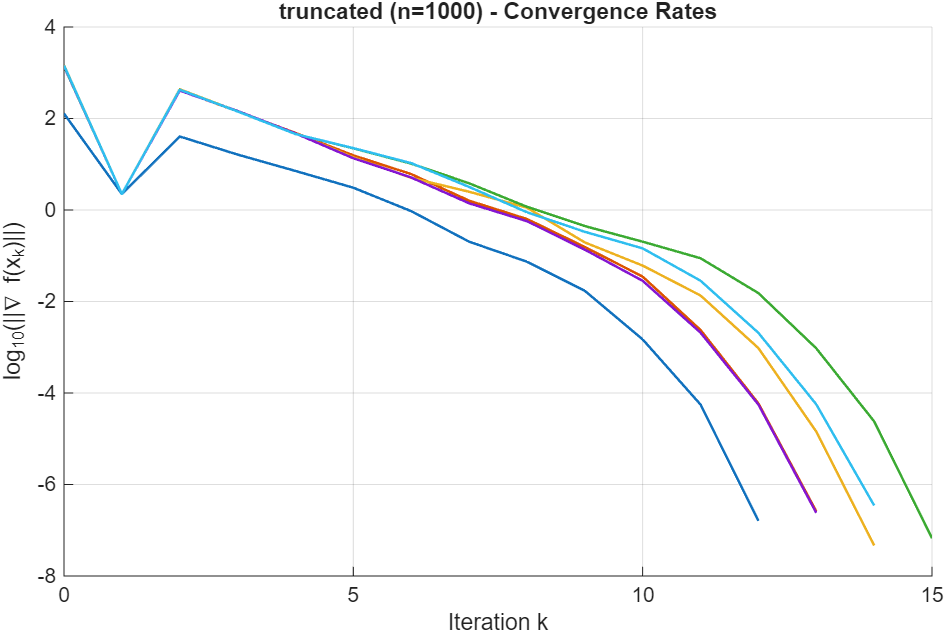
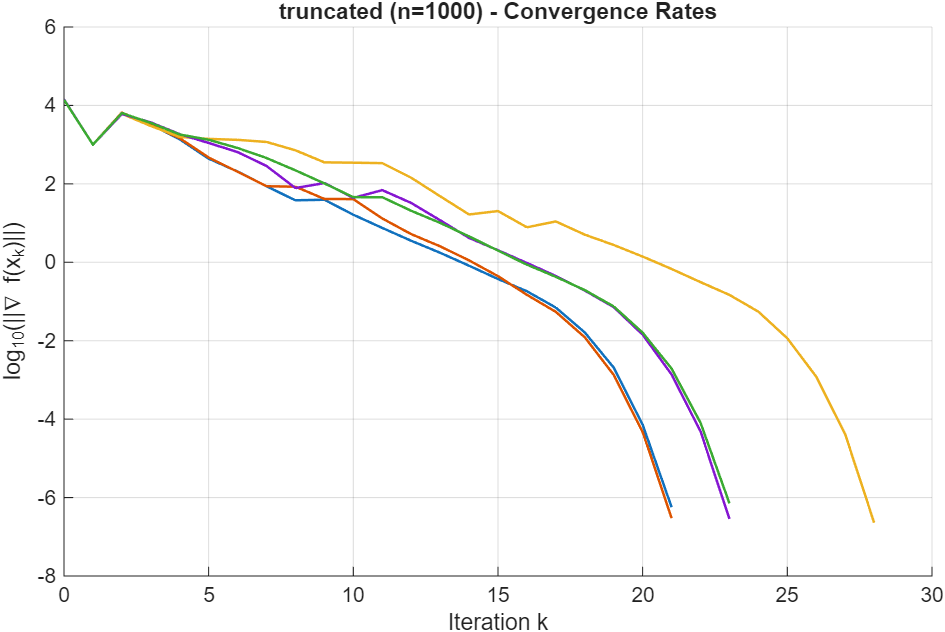
aggiunta anche il 16

diff --git a/main/utils/problem_trig16.m b/main/utils/problem_trig16.m
@@ -1,0 +1,48 @@
+function [f,gradf,hessf,xbar] = problem_trig16()
+% ------------------------------------------------------------
+% Problem 16: Banded Trigonometric
+%
+% The objective function is:
+%   F(x) = sum_{i=1}^n i * (1 - cos(x_i))
+%        + 2 * sum_{i=1}^{n-1} sin(x_i)
+%        - (n - 1) * sin(x_n)
+%
+% OUTPUT:
+%   f, gradf, hessf : handle to F(x), grad(F(x)), hess(F(x))
+%   xbar   : handle that returns the standard starting point xbar(n)
+
+f     = @Ffun;
+gradf = @gfun;
+hessf = @Hfun;
+
+% Required starting point:
+%   x_i = 1  for all i
+xbar = @(n) ones(n,1);
+
+    function Fx = Ffun(x)
+        n = length(x);
+        i = (1:n)';
+        Fx = sum( i .* (1 - cos(x)) ) ...
+           + 2 * sum( sin(x(1:n-1)) ) ...
+           - (n-1) * sin(x(n));
+    end
+
+    function g = gfun(x)
+        n = length(x);
+        i = (1:n)';
+        g = zeros(n,1);
+        g(1:n-1) = i(1:n-1).*sin(x(1:n-1)) + 2*cos(x(1:n-1));
+        g(n)     = n*sin(x(n)) - (n-1)*cos(x(n));
+    end
+
+    function H = Hfun(x)
+        n = length(x);
+        i = (1:n)';
+        d = zeros(n,1);
+        d(1:n-1) = i(1:n-1).*cos(x(1:n-1)) - 2*sin(x(1:n-1));
+        d(n)     = n*cos(x(n)) + (n-1)*sin(x(n));
+        H = spdiags(d, 0, n, n);
+    end
+
+
+end

diff --git a/main/main31.m b/main/main31.m
@@ -9,7 +9,7 @@ addpath(genpath(pwd))
 [f, gradf, hessf, xbar_gen] = problem_broyden31();
 
 % Parameters definition
-dimensions = [2, 10^3, 10^4, 10^5]; 
+dimensions = [2, 10^3]%, 10^4, 10^5]; 
 kmax = 50;
 tolgrad = 1e-6;
 c1 = 1e-3;      % Standard Armijo parameter
